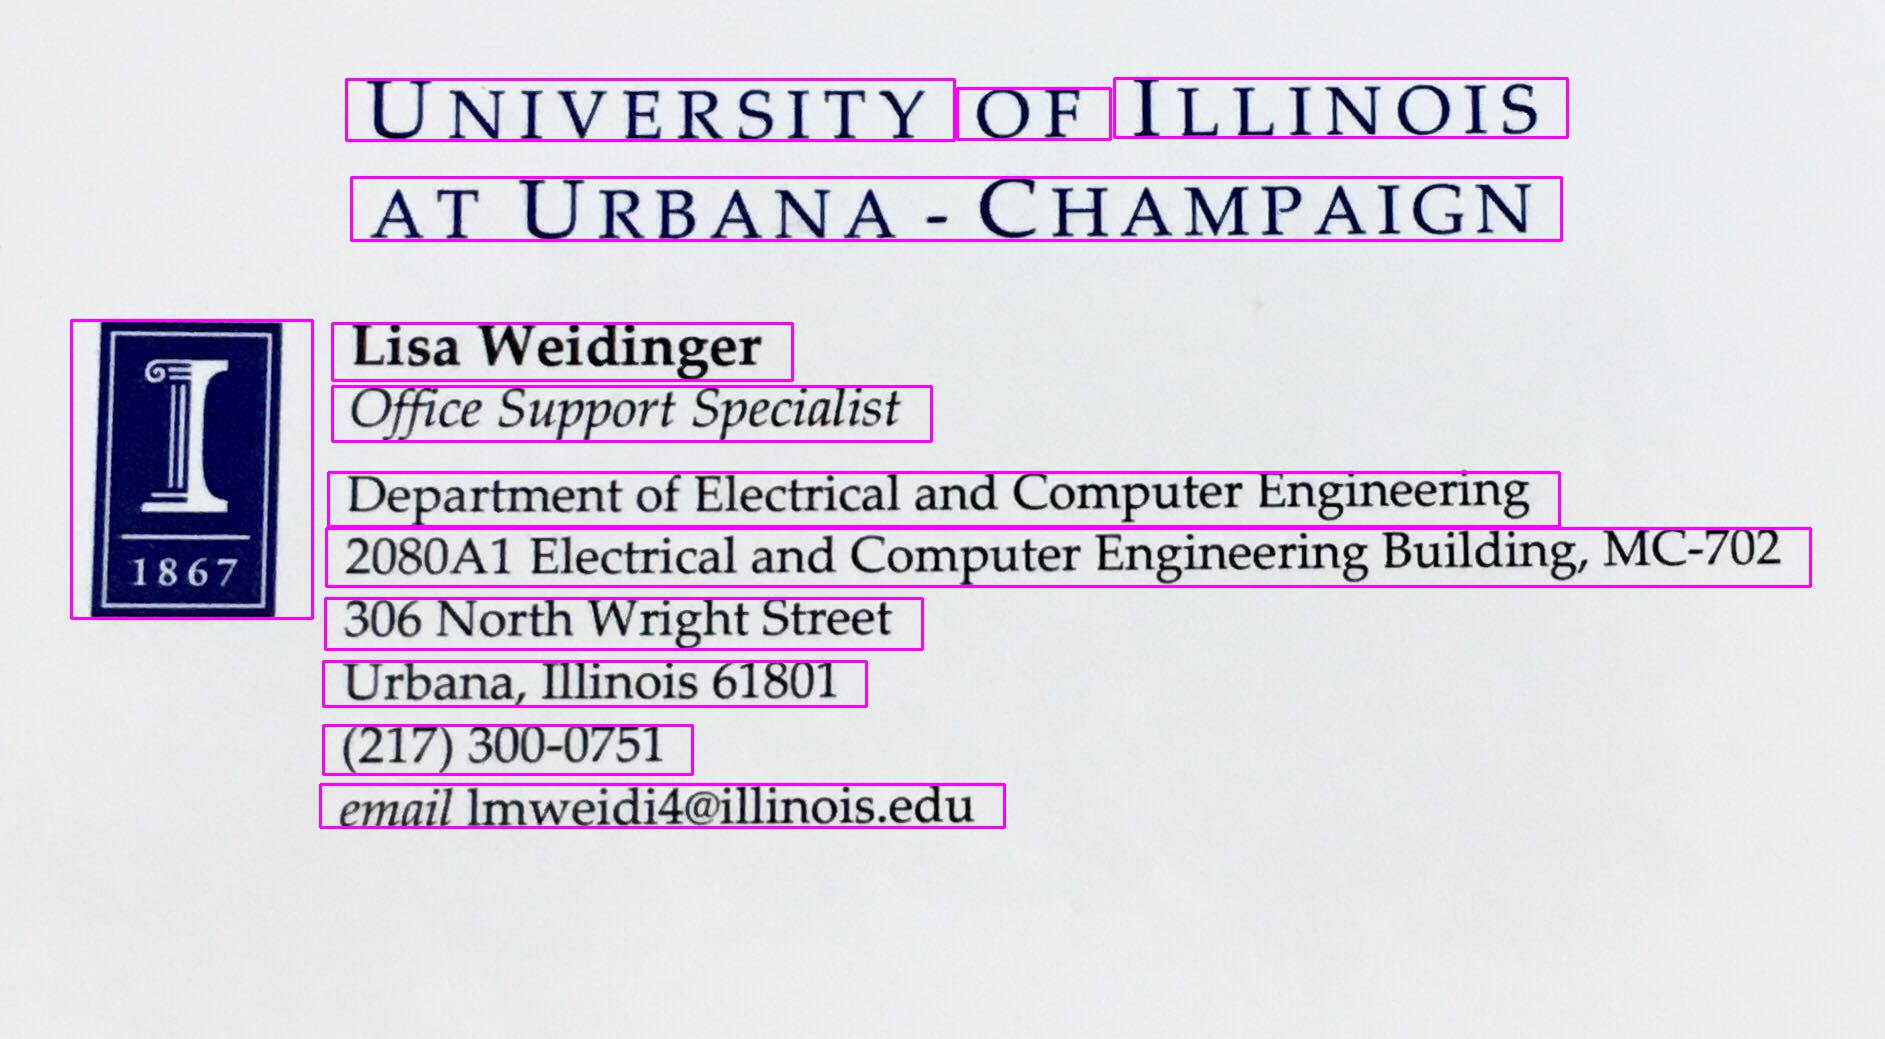
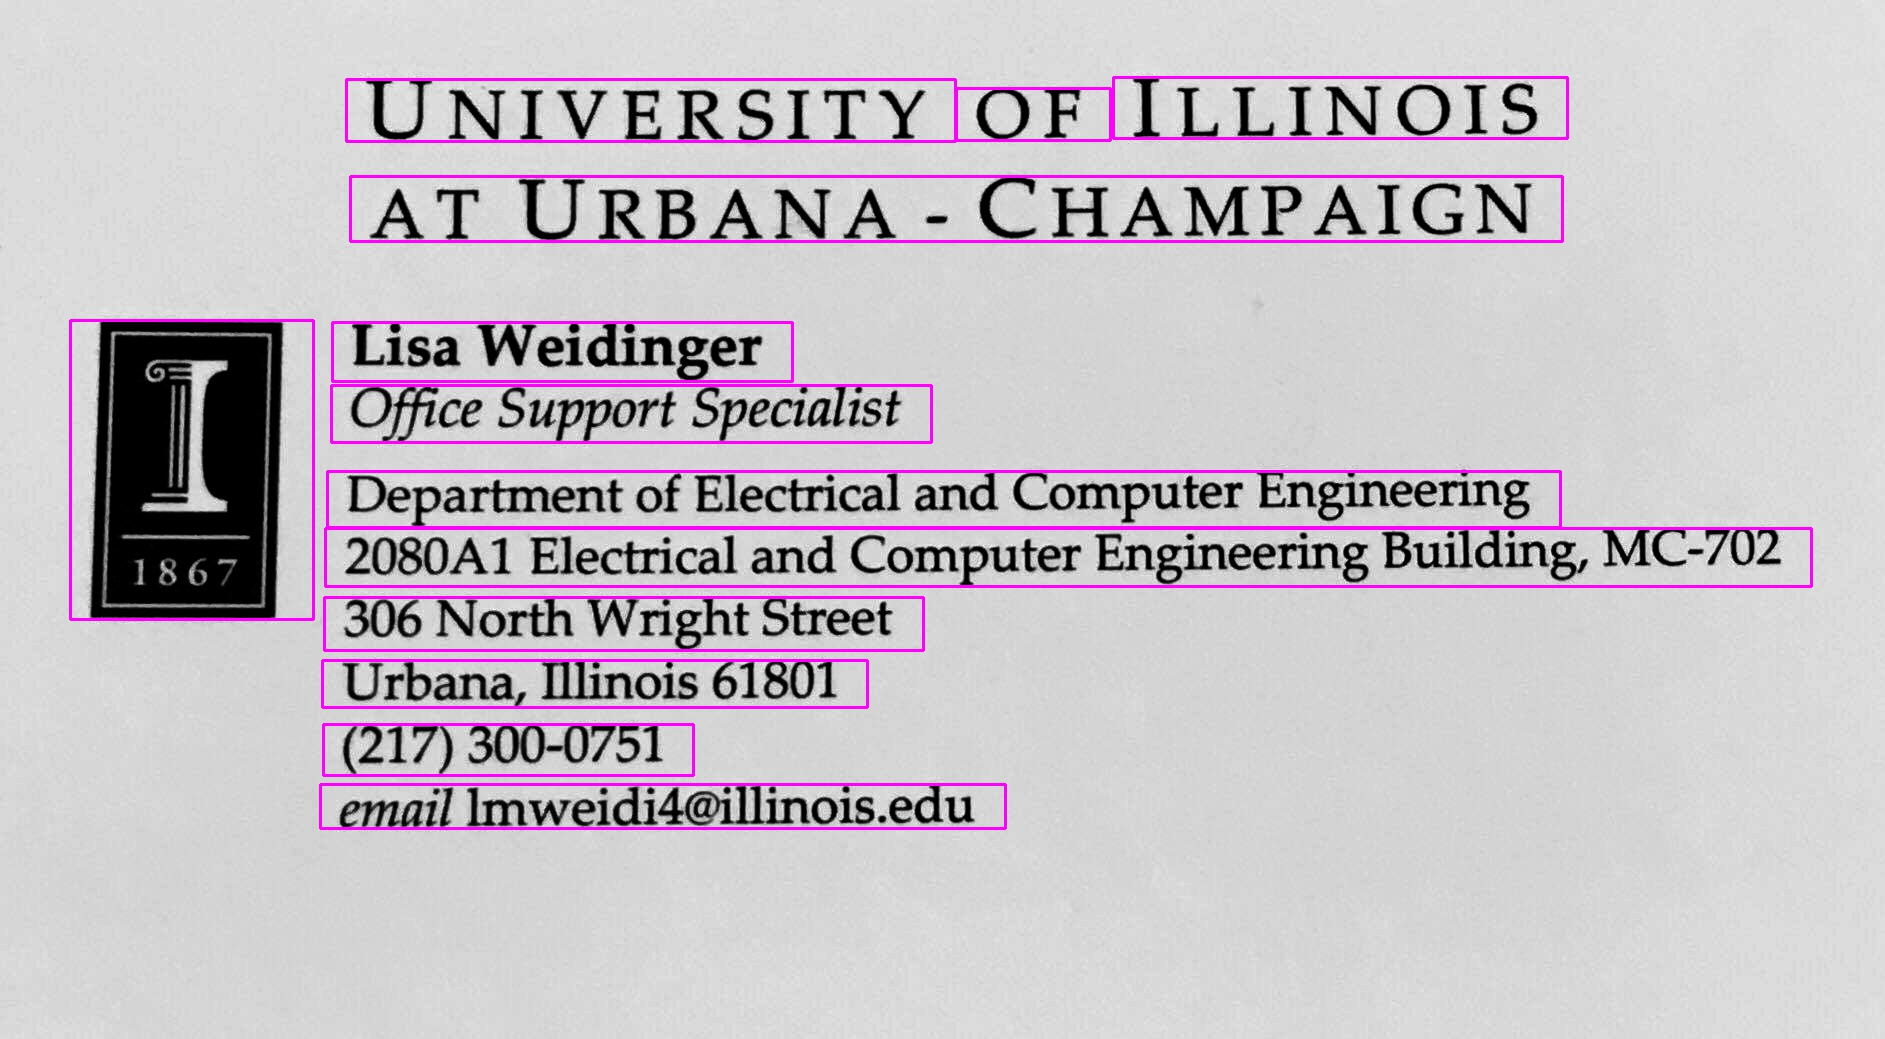
milestone2

diff --git a/BusinessCard/app/src/main/java/com/example/ece420final/businesscard/DetectionActivity.java b/BusinessCard/app/src/main/java/com/example/ece420final/businesscard/DetectionActivity.java
@@ -14,6 +14,8 @@ import android.util.Log;
 import java.util.Arrays;
 import java.util.List;
 import java.util.ArrayList;
+import android.graphics.*;
+
 
 
 import org.opencv.android.Utils;
@@ -52,6 +54,7 @@ public class DetectionActivity extends AppCompatActivity  {
         myImg = (ImageView)findViewById(R.id.imageView2);
         myImg.setImageBitmap(getProcessedBitmap(receivedImgPath));
 
+
         myRecognitionButton = (Button)findViewById(R.id.buttonRecognition);
         myRecognitionButton.setText("Now Let's Recognize!!");
         myRecognitionButton.setOnClickListener(new View.OnClickListener() {
@@ -62,53 +65,62 @@ public class DetectionActivity extends AppCompatActivity  {
         });
     }
 
-    /*gray = cv2.cvtColor(image,cv2.COLOR_BGR2GRAY) # grayscale
-    _,thresh = cv2.threshold(gray,150,255,cv2.THRESH_BINARY_INV) # threshold
-    kernel = cv2.getStructuringElement(cv2.MORPH_CROSS,(6,1))
-    dilated = cv2.dilate(thresh,kernel,iterations = 10) # dilate
-
-    img,contours,hierarchy = cv2.findContours(dilated,cv2.RETR_EXTERNAL,cv2.CHAIN_APPROX_NONE) # get contours
-    */
-
     private Bitmap getProcessedBitmap(String imgPath){
         if(imgPath != null) {
             Bitmap myBitmap = BitmapFactory.decodeFile(imgPath);
+            //~/420FinalProject/test.py
+            //myBitmap = adjustedContrast(myBitmap,1);
 
+
+
+
+             /*gray = cv2.cvtColor(image,cv2.COLOR_BGR2GRAY) # grayscale
+                _,thresh = cv2.threshold(gray,150,255,cv2.THRESH_BINARY_INV) # threshold
+                kernel = cv2.getStructuringElement(cv2.MORPH_CROSS,(6,1))
+                dilated = cv2.dilate(thresh,kernel,iterations = 10) # dilate
+                img,contours,hierarchy = cv2.findContours(dilated,cv2.RETR_EXTERNAL,cv2.CHAIN_APPROX_NONE) # get contours
+            */
+
+            //dilation and detection;
             Mat imgMat = new Mat();
             Mat imgOriginal = new Mat();
             Utils.bitmapToMat(myBitmap,imgMat);
             Utils.bitmapToMat(myBitmap,imgOriginal);
             Bitmap bmpOut = Bitmap.createBitmap(imgMat.cols(),imgMat.rows(),Bitmap.Config.ARGB_8888);
             Imgproc.cvtColor(imgMat,imgMat,Imgproc.COLOR_BGR2GRAY);//to gray scale
-            Imgproc.threshold(imgMat,imgMat,150,255,Imgproc.THRESH_BINARY_INV);
+            Imgproc.threshold(imgMat,imgMat,100,255,Imgproc.THRESH_BINARY_INV);
 
             Mat kernel = Imgproc.getStructuringElement(Imgproc.MORPH_CROSS,new Size(1,6));
-            dilate(imgMat,imgMat,kernel,15);
+            dilate(imgMat,imgMat,kernel,10);
 
             List<MatOfPoint> contours = new ArrayList<>();
             Mat hierarchy = new Mat();
             Imgproc.findContours(imgMat,contours,hierarchy,Imgproc.RETR_EXTERNAL,Imgproc.CHAIN_APPROX_SIMPLE);
 
+
             //draw contours
             for(int i = 0;i < contours.size();i++){
                 MatOfPoint matOfPoint = contours.get(i);
+
 
                 Rect rect = Imgproc.boundingRect(matOfPoint);
 
                 //Log.d(TAG,Arrays.toString(contours.get(i).toArray()));
 
                 /*
+                * corresponding python script
                 * # draw rectangle around contour on original image
-                 cv2.rectangle(image,(x,y),(x+w,y+h),(255,0,255),2)
-                  */
-                //Imgproc.rectangle(imgMat,new Point());
+                * cv2.rectangle(image,(x,y),(x+w,y+h),(255,0,255),2)
+                */
+
                 if(rect.height > 500 && rect.width > 500){continue;}
-                if(rect.height <30 || rect.width < 30){continue;}
+                if(rect.height <10 || rect.width < 10){continue;}
                 Imgproc.rectangle(imgOriginal,
                         new Point(rect.x,rect.y),
                         new Point(rect.x+rect.width,rect.y+rect.height),
                         new Scalar(255,0,255),
-                        3);
+                        2);
+                Imgproc.resize(imgOriginal,imgOriginal,imgOriginal.size(),7,7,Imgproc.INTER_CUBIC);
 
             }
 
@@ -127,6 +139,61 @@ public class DetectionActivity extends AppCompatActivity  {
         for(int i = 0;i < iterations;i++){
             Imgproc.dilate(src,dst,kernel);
         }
+    }
+
+    private Bitmap adjustedContrast(Bitmap src, double value)
+    {
+
+        // image size
+        int width = src.getWidth();
+        int height = src.getHeight();
+        // create output bitmap
+
+
+        // create a mutable empty bitmap
+        Bitmap bmOut = Bitmap.createBitmap(width, height, src.getConfig());
+
+        // create a canvas so that we can draw the bmOut Bitmap from source bitmap
+        Canvas c = new Canvas();
+        c.setBitmap(bmOut);
+
+        // draw bitmap to bmOut from src bitmap so we can modify it
+        c.drawBitmap(src, 0, 0, new Paint(Color.BLACK));
+
+
+        // color information
+        int A, R, G, B;
+        int pixel;
+        // get contrast value
+        double contrast = Math.pow((100 + value) / 100, 2);
+
+        // scan through all pixels
+        for(int x = 0; x < width; ++x) {
+            for(int y = 0; y < height; ++y) {
+                // get pixel color
+                pixel = src.getPixel(x, y);
+                A = Color.alpha(pixel);
+                // apply filter contrast for every channel R, G, B
+                R = Color.red(pixel);
+                R = (int)(((((R / 255.0) - 0.5) * contrast) + 0.5) * 255.0);
+                if(R < 0) { R = 0; }
+                else if(R > 255) { R = 255; }
+
+                G = Color.green(pixel);
+                G = (int)(((((G / 255.0) - 0.5) * contrast) + 0.5) * 255.0);
+                if(G < 0) { G = 0; }
+                else if(G > 255) { G = 255; }
+
+                B = Color.blue(pixel);
+                B = (int)(((((B / 255.0) - 0.5) * contrast) + 0.5) * 255.0);
+                if(B < 0) { B = 0; }
+                else if(B > 255) { B = 255; }
+
+                // set new pixel color to output bitmap
+                bmOut.setPixel(x, y, Color.argb(A, R, G, B));
+            }
+        }
+        return bmOut;
     }
 
 }

diff --git a/BusinessCard/app/src/main/java/com/example/ece420final/businesscard/MainActivity.java b/BusinessCard/app/src/main/java/com/example/ece420final/businesscard/MainActivity.java
@@ -22,7 +22,6 @@ import android.widget.ImageView;
 import android.graphics.BitmapFactory;
 import android.widget.Toast;
 import android.graphics.Matrix;
-import java.io.ByteArrayOutputStream;
 import java.text.SimpleDateFormat;
 import java.util.Date;
 import java.io.File;
